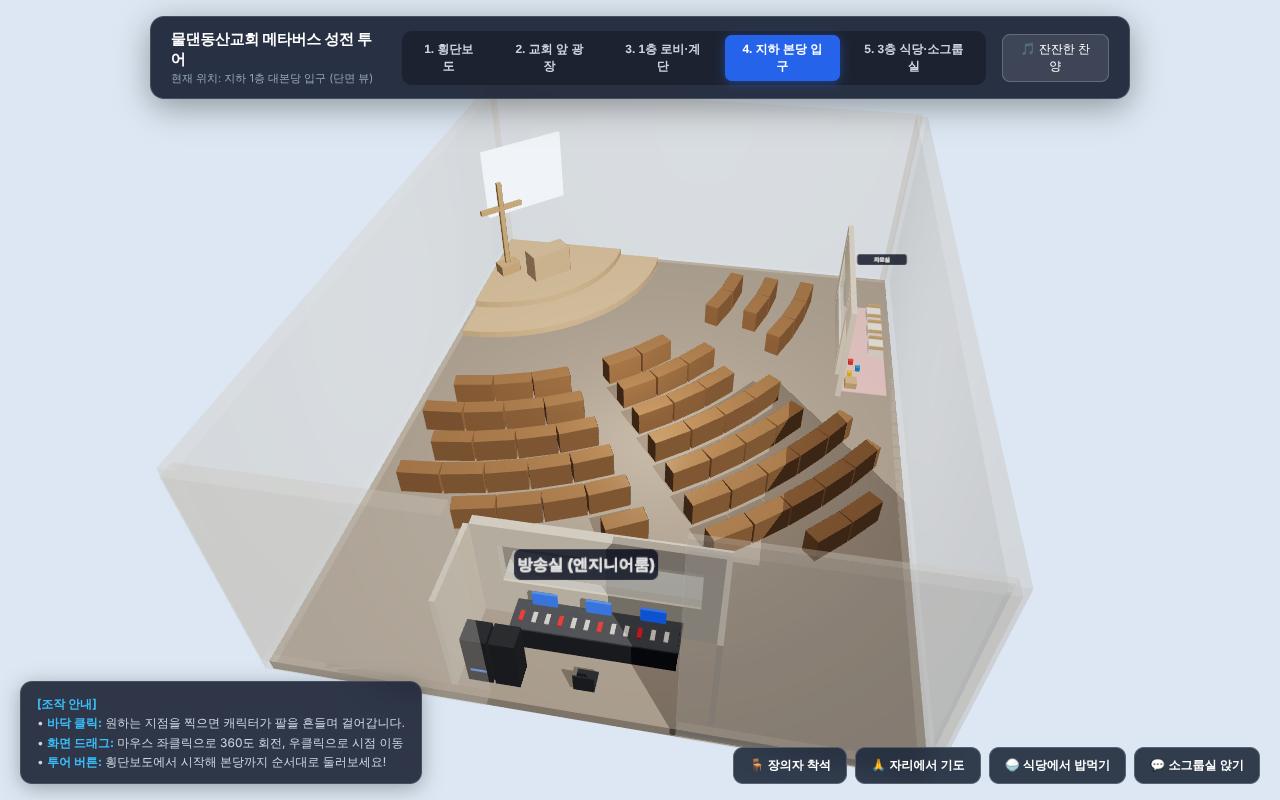
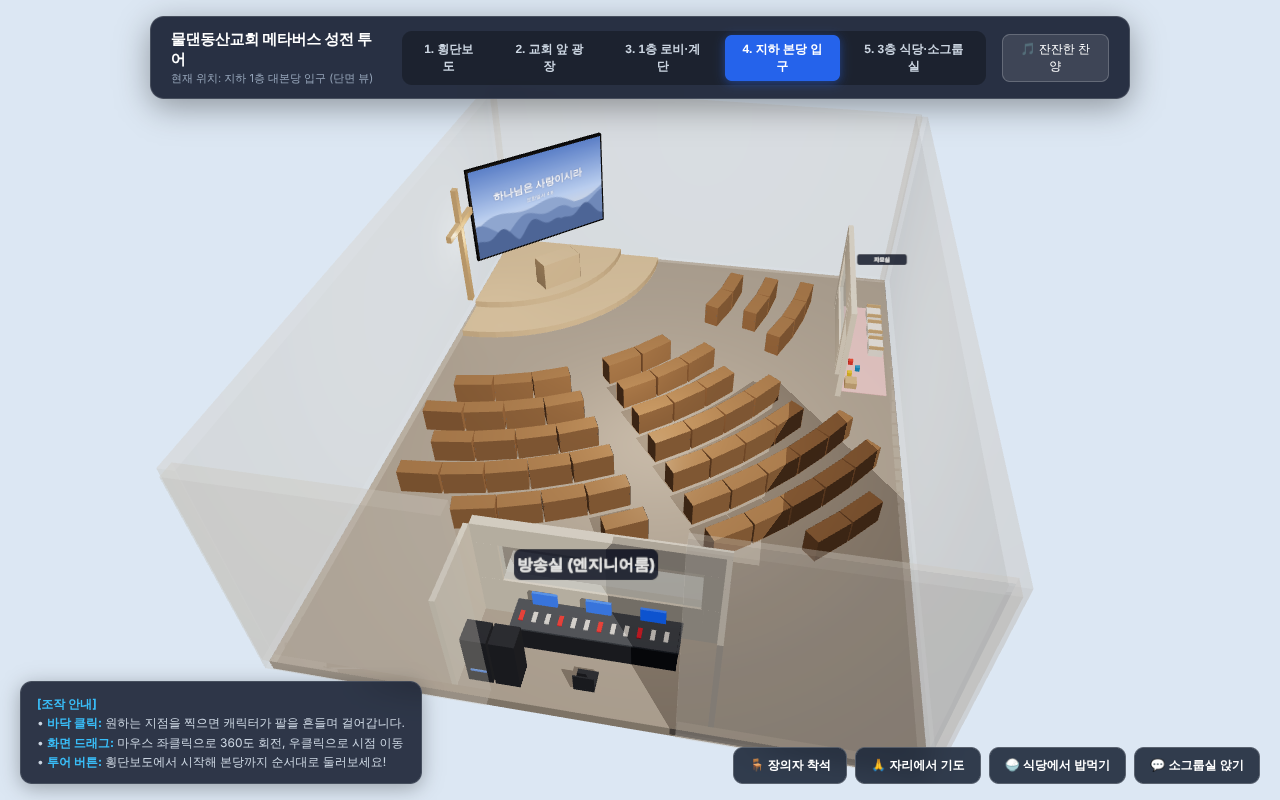
본당: 십자가를 벽에 붙이고 스크린을 대각선으로 크게(5.0×3.2m) + 화면 그림, 강대상 이동, 착석 시점 조정
Claude-Session: https://claude.ai/code/session_01Vz1QJdAp6yikLxGfQj8jmX

Changed region(s): [[0.3438, 0.1562, 0.4688, 0.375]]

diff --git a/index.html b/index.html
@@ -757,24 +757,66 @@
         });
       }
 
-      // 2) LED 화면: 양 끝이 벽 밖으로 나가지 않게 폭 줄이고 모서리 중앙으로 이동
+      // 2) LED 화면: 무대 모서리를 대각선으로 가로질러 크게 세우기 (참고 사진처럼 큰 스크린)
+      //    모서리 안쪽 끝(-13.03, -17.58)에서 대각선으로 s만큼 떨어진 두 벽 위 점을 잇는 선 위에 놓으면
+      //    폭 = s×√2 까지 벽 안에 들어간다. 폭 5.0m(원래 5.6m 모델의 0.89배) · 높이 3.2m
+      const CORNER = { x: -13.03, z: -17.58 };
+      const LED_W = 5.0, LED_H = 3.2, LED_BOTTOM = -5.0;
+      const ledS = LED_W / Math.SQRT2 + 0.08;                // 벽과 8cm 여유
       const led = byName['B1_FINAL_LED_Screen'];
-      if (led) { led.position.x = -11.915; led.position.z = -16.465; led.scale.x = 0.52; }
+      if (led) {
+        led.position.set(CORNER.x + ledS / 2, LED_BOTTOM + LED_H / 2, CORNER.z + ledS / 2);
+        led.rotation.set(0, Math.PI / 4, 0);
+        led.scale.set(LED_W / 5.6, LED_H / 2.3, 1);
+        // 스크린 화면: 새벽 하늘 · 산 · 말씀 (그림 파일 없이 코드로 그림)
+        const c = document.createElement('canvas'); c.width = 1024; c.height = 656;
+        const x = c.getContext('2d');
+        const sky = x.createLinearGradient(0, 0, 0, 656);
+        sky.addColorStop(0, '#5b7fc7'); sky.addColorStop(0.55, '#b9cdee'); sky.addColorStop(1, '#f3e6cf');
+        x.fillStyle = sky; x.fillRect(0, 0, 1024, 656);
+        [['#8fa6cf', 430, 0.004], ['#6f88b8', 500, 0.006], ['#4d6596', 570, 0.009]].forEach(([col, base, f], i) => {
+          x.fillStyle = col; x.beginPath(); x.moveTo(0, 656);
+          for (let px = 0; px <= 1024; px += 8) x.lineTo(px, base - 70 * Math.abs(Math.sin(px * f + i * 1.7)) - 30 * Math.sin(px * f * 3.1 + i));
+          x.lineTo(1024, 656); x.closePath(); x.fill();
+        });
+        x.fillStyle = '#ffffff'; x.textAlign = 'center'; x.textBaseline = 'middle';
+        x.shadowColor = 'rgba(20,30,60,0.45)'; x.shadowBlur = 12;
+        x.font = 'bold 76px sans-serif'; x.fillText('하나님은 사랑이시라', 512, 230);
+        x.font = '38px sans-serif'; x.fillText('요한일서 4:8', 512, 320);
+        const tex = new THREE.CanvasTexture(c);
+        if ('colorSpace' in tex) tex.colorSpace = THREE.SRGBColorSpace;
+        // 원래 스크린 상자는 검은 테두리로 두고, 회중 쪽 앞면에 그림 판을 붙임
+        led.material = new THREE.MeshStandardMaterial({ color: 0x15171c, roughness: 0.6 });
+        const face = new THREE.Mesh(new THREE.PlaneGeometry(LED_W - 0.12, LED_H - 0.12),
+          new THREE.MeshBasicMaterial({ map: tex, toneMapped: false }));
+        face.position.set(led.position.x + 0.075 * Math.SQRT1_2, led.position.y, led.position.z + 0.075 * Math.SQRT1_2);
+        face.rotation.set(0, Math.PI / 4, 0);
+        g.add(face);
+      }
 
       // 3) 강대상: 바닥에서 9cm 뜬 것 내려놓기
       const pulpit = byName['B1_FINAL_Pulpit'];
-      if (pulpit) pulpit.position.y -= 0.09;
+      if (pulpit) {
+        pulpit.position.y -= 0.09;
+        // 커진 스크린과 겹치지 않게 대각선으로 앞(회중 쪽)으로 옮김 (모서리에서 대각선 3.5m)
+        const d = 3.5 / Math.SQRT2;
+        pulpit.position.x = CORNER.x + d; pulpit.position.z = CORNER.z + d;
+      }
 
-      // 4) 십자가: 허공에 떠 있던 것을 무대 위 받침에 세우기 (LED 화면 앞)
+      // 4) 십자가: 참고 사진처럼 벽에 붙임. 회중이 무대를 볼 때 스크린 왼쪽 = 서쪽 벽.
+      //    스크린 끝(z ≈ -13.9)보다 남쪽, 무대 윗단 끝 근처에 1.3배 크기로 건다.
       const cv = byName['B1_FINAL_Cross_V'], ch = byName['B1_FINAL_Cross_H'];
       if (cv && ch) {
-        const stageTop = -6.16, baseH = 0.35, yaw = Math.PI / 4;
-        const cx = -12.45, cz = -15.35;
-        cv.position.set(cx, stageTop + baseH + 1.5, cz); cv.rotation.set(0, yaw, 0);
-        ch.position.set(cx, stageTop + baseH + 2.1, cz); ch.rotation.set(0, yaw, 0);
-        const base = new THREE.Mesh(new THREE.BoxGeometry(0.7, baseH, 0.5), cv.material);
-        base.position.set(cx, stageTop + baseH / 2, cz);
-        base.rotation.y = yaw; base.castShadow = true; g.add(base);
+        const k = 1.3, wallX = CORNER.x + 0.06 * k + 0.02, cz = -12.85;
+        const bottom = -5.75, vH = 3.0 * k;
+        cv.scale.set(k, k, k); ch.scale.set(k, k, k);
+        cv.rotation.set(0, Math.PI / 2, 0); ch.rotation.set(0, Math.PI / 2, 0);   // 앞면이 동쪽(회중)을 향함
+        cv.position.set(wallX, bottom + vH / 2, cz);
+        ch.position.set(wallX + 0.01, bottom + vH * 0.7, cz);
+        // 십자가 뒤 벽을 은은하게 비추는 조명
+        const glow = new THREE.PointLight(0xffd9a0, 1.6, 4.5, 1.5);
+        glow.position.set(CORNER.x + 0.6, bottom + vH * 0.6, cz);
+        g.add(glow);
       }
 
       // 5) 자모실: 칸막이를 홀 쪽으로 옮겨 방을 넓히고, 유리창 · 문 · 매트 · 아기침대 넣기
@@ -1026,8 +1068,9 @@
       characterGroup.rotation.y = seat.rot; // 무대(왼쪽 위 모서리)를 향해 앉음
       targetPos.copy(characterGroup.position);
 
-      controls.target.set(seat.x, seat.y + 0.8, seat.z);
-      camera.position.set(seat.x - Math.sin(seat.rot) * 2.8, seat.y + 1.6, seat.z - Math.cos(seat.rot) * 2.8); // 뒤에서 비추는 뷰
+      // 뒤에서 비추되 조금 높게: 커진 스크린과 벽 십자가가 함께 보이게
+      controls.target.set(seat.x + Math.sin(seat.rot) * 2.0, seat.y + 1.5, seat.z + Math.cos(seat.rot) * 2.0);
+      camera.position.set(seat.x - Math.sin(seat.rot) * 2.6, seat.y + 1.5, seat.z - Math.cos(seat.rot) * 2.6);
     });
 
     btnActionPray.addEventListener('click', () => {

diff --git a/docs/verification/2026-11-05/REPORT.md b/docs/verification/2026-11-05/REPORT.md
@@ -18,3 +18,9 @@
 - 지하 본당: 의자 112석 앞자리 + 무대·자모실·방송실 = 118곳, R=0.28에서 117/118 (못 간 1곳은 방송 데스크 안쪽에 찍은 검사점이라 문제 아님).
   단, R=0.35(몸 폭 0.7m)이면 의자 줄 사이가 좁아 51/118만 도달 → 줄 사이 실제 틈은 약 0.7m.
 - 캐릭터는 여전히 벽·가구와 충돌하지 않음(클릭한 곳으로 직선 이동). 위 검사는 "지나갈 틈이 있다"는 뜻.
+
+## 본당 십자가·스크린 (참고 이미지 반영)
+- 스크린: 무대 모서리를 대각선으로 가로질러 폭 5.0m × 높이 3.2m (이전 약 2.9m × 2.3m). 화면에 하늘·산·말씀 그림.
+- 십자가: 받침을 없애고 회중이 볼 때 스크린 왼쪽(서쪽 벽)에 1.3배 크기로 붙임, 뒤에 은은한 조명.
+- 강대상: 스크린과 겹치지 않게 모서리에서 대각선 3.5m 위치로 앞당김.
+- 장의자 착석 시점: 스크린과 십자가가 함께 보이게 조정 (`b1-cross-screen-pew.png`).
